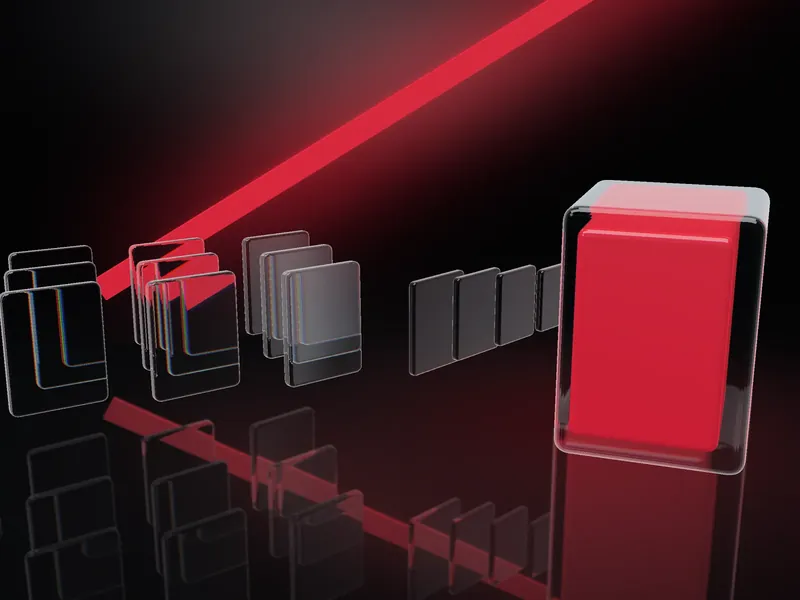
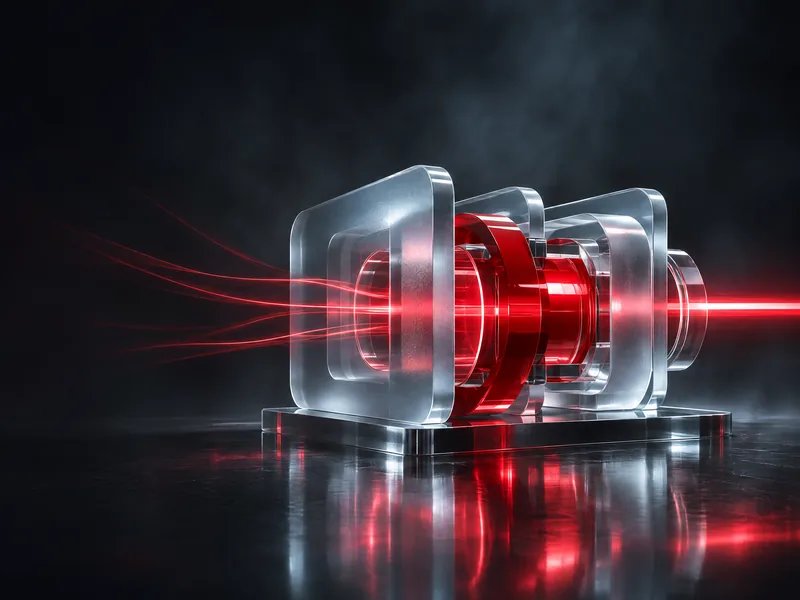
Nowe grafiki na stronie głównej (kopia docs/ z eec725c)
Claude-Session: https://claude.ai/code/session_01EKb5mpW7MxeFDWJuZ5CDms

diff --git a/index.html b/index.html
@@ -19,8 +19,8 @@
 <meta name="theme-color" content="#111217">
 <link rel="icon" type="image/png" href="/assets/hazeo-logo.png">
 <link rel="apple-touch-icon" href="/apple-touch-icon.png">
-<link rel="preload" as="image" href="/assets/hazeo-hero.webp" media="(min-width:900px)">
-<link rel="preload" as="image" href="/assets/hazeo-hero-mobile.webp" media="(max-width:899px)">
+<link rel="preload" as="image" href="/assets/hazeo-city.webp" imagesrcset="/assets/hazeo-city-1280.webp 1280w, /assets/hazeo-city.webp 2400w" imagesizes="100vw" media="(min-width:900px), (orientation:landscape)">
+<link rel="preload" as="image" href="/assets/hazeo-city-mobile.webp" imagesrcset="/assets/hazeo-city-mobile-540.webp 540w, /assets/hazeo-city-mobile.webp 1080w" imagesizes="100vw" media="(max-width:899px) and (orientation:portrait)">
 <link rel="preload" href="/assets/fonts/geist-variable.woff2" as="font" type="font/woff2" crossorigin>
 <style>@font-face{font-family:"Geist";src:url("/assets/fonts/geist-variable.woff2") format("woff2");font-weight:100 900;font-style:normal;font-display:swap}</style>
 <script>document.documentElement.classList.add('js')</script>
@@ -120,12 +120,10 @@ main,footer,header{position:relative;z-index:2}
 /* ---------- hero ---------- */
 .hero{position:relative;height:150svh}
 .hero__stage{position:sticky;top:0;height:100svh;overflow:clip}
-.hero__img{position:absolute;inset:0;width:100%;height:100%;object-fit:cover;object-position:70% 50%;transform-origin:68% 45%;will-change:transform}
-.hero__beam{position:absolute;inset:-20% -40%;pointer-events:none;mix-blend-mode:screen;opacity:.55;
-  background:linear-gradient(115deg,transparent 42%,rgba(239,35,60,.0) 46%,rgba(239,35,60,.35) 50%,rgba(255,120,135,.12) 52%,transparent 58%)}
-@media (prefers-reduced-motion:no-preference){.hero__beam{animation:beam 9s var(--ease-in-out) infinite}}
-@keyframes beam{0%{transform:translateX(-30%)}55%{transform:translateX(30%)}100%{transform:translateX(30%)}}
-.hero__shade{position:absolute;inset:0;pointer-events:none;background:linear-gradient(90deg,rgba(17,18,23,.92) 0%,rgba(17,18,23,.65) 34%,rgba(17,18,23,0) 62%),linear-gradient(0deg,rgba(17,18,23,.85),rgba(17,18,23,0) 30%)}
+.hero__media{position:absolute;inset:0;transform-origin:72% 45%;will-change:transform}
+.hero__img{position:absolute;inset:0;width:100%;height:100%;object-fit:cover;object-position:72% 50%}
+.hero__video{opacity:0;transition:opacity 1.2s var(--ease-out)}.hero__video.is-on{opacity:1}
+.hero__shade{position:absolute;inset:0;pointer-events:none;background:linear-gradient(90deg,rgba(17,18,23,.95) 0%,rgba(17,18,23,.8) 40%,rgba(17,18,23,.25) 58%,rgba(17,18,23,0) 72%),linear-gradient(0deg,rgba(17,18,23,.85),rgba(17,18,23,0) 30%)}
 .hero__copy{position:absolute;left:0;right:0;bottom:0;padding-bottom:clamp(2.25rem,8svh,6rem)}
 .hero h1{display:grid;gap:clamp(0.875rem,2svh,1.5rem)}
 .hero .kick{font-size:clamp(0.9375rem,1.2vw,1.125rem);font-weight:500;letter-spacing:0;line-height:1.4;color:var(--ice-2);display:flex;align-items:center;gap:0.75rem}
@@ -137,21 +135,19 @@ main,footer,header{position:relative;z-index:2}
 .hero .actions{margin-top:clamp(1.375rem,3.5svh,2.25rem);display:flex;flex-wrap:wrap;gap:0.75rem}
 .hero .fine{margin-top:1rem;font-size:0.875rem;color:var(--ice-3)}
 @media (max-width:599px){
-  .hero__img{top:-72px;height:calc(100% + 4.5rem)}
   .hero__shade{background:linear-gradient(0deg,rgba(17,18,23,.97) 0%,rgba(17,18,23,.88) 44%,rgba(17,18,23,.3) 60%,rgba(17,18,23,0) 72%)}
-  .hero__beam{opacity:.3}
   .hero .lede{font-size:1.0625rem;line-height:1.5}
   .hero .actions{flex-wrap:nowrap;gap:0.625rem}
   .hero .actions .btn{flex:1 1 0;min-width:0;padding:0 0.875rem;gap:0.5rem;font-size:0.9375rem;min-height:3.25rem;white-space:nowrap}
   .hero .fine{font-size:0.8125rem;color:var(--ice-2);opacity:.8}
 }
-@media (max-width:599px) and (max-height:740px){.hero__img{top:-124px;height:calc(100% + 7.75rem)}}
 .hero__tiles{position:absolute;right:var(--margin-r);top:22svh;display:grid;gap:0.75rem;width:min(18.75rem,26vw)}
 .hero__tiles .glass{padding:1rem 1.125rem;font-size:0.9375rem;line-height:1.35}
 .hero__tiles strong{display:block;font-size:1.375rem;font-weight:600;letter-spacing:-.03em;margin-bottom:2px}
+@media (max-width:899px) and (orientation:portrait){.hero__img{object-position:50% 0}}
 @media (max-width:899px){
   .hero{height:130svh}
-  .hero__img{object-position:50% 30%;transform-origin:50% 35%}
+  .hero__media{transform-origin:50% 30%}
   .hero__shade{background:linear-gradient(0deg,rgba(17,18,23,.96) 0%,rgba(17,18,23,.8) 40%,rgba(17,18,23,0) 70%)}
   .hero__tiles{display:none}
 }
@@ -194,7 +190,8 @@ main,footer,header{position:relative;z-index:2}
 .engine__tag{margin-top:1.125rem;font-size:0.9375rem;color:var(--ice-2)}
 .engine__tag b{color:var(--red);font-weight:600}
 .engine__visual{grid-column:7/span 6;position:relative;aspect-ratio:4/3;border-radius:1.75rem;overflow:hidden}
-.engine__visual img{width:100%;height:100%;object-fit:cover;transform:scale(calc(1.12 - var(--ep,0) * .12));transition:transform 200ms linear}
+.engine__visual img,.engine__video{width:100%;height:100%;object-fit:cover;transform:scale(calc(1.12 - var(--ep,0) * .12));transition:transform 200ms linear,opacity 1s var(--ease-out)}
+.engine__video{position:absolute;inset:0;opacity:0}.engine__video.is-on{opacity:1}
 .engine__visual .glass{position:absolute;left:1.125rem;bottom:1.125rem;padding:0.75rem 1rem;font-size:0.875rem}
 .engine__visual .glass b{color:var(--red)}
 .engine__rail{position:absolute;left:0;top:0;bottom:0;width:0.1875rem;background:rgba(223,229,235,.1)}
@@ -398,7 +395,7 @@ html{font-size:16px}
   .hero__tiles{display:none}
 }
 @media (min-width:900px){.faq h2{grid-column:1/span 5;padding-right:var(--gutter)}}
-@media (min-aspect-ratio:2/1) and (min-width:900px){.hero__img{left:auto;right:0;width:calc(100svh * 16 / 9)}}
+@media (min-aspect-ratio:2/1) and (min-width:900px){.hero__media{left:auto;right:0;width:calc(100svh * 16 / 9)}}
 @media (min-width:900px) and (max-height:820px){.engine__text h2{font-size:min(clamp(1.875rem,3.3vw,3.375rem),6.2svh)}.engine__text .lede{font-size:1rem;margin-top:.75rem}.steps{margin-top:1rem}.step{padding:.625rem .875rem}}
 @media (min-width:900px) and (max-height:680px){.engine{height:auto}.engine__stage{position:static;height:auto;padding-block:6rem}.step{opacity:1}.step span{max-height:none;margin-top:.375rem}.step::before{background:var(--red);color:var(--obsidian)}}
 @media (min-width:900px){.hero .lede{max-width:40ch}}
@@ -448,8 +445,9 @@ img{max-width:100%;height:auto}
 <main id="top">
   <section class="hero" id="hero" aria-labelledby="h1">
     <div class="hero__stage">
-      <picture><source media="(max-width:899px)" width="1080" height="1920" srcset="/assets/hazeo-hero-mobile-540.webp 540w, /assets/hazeo-hero-mobile.webp 1080w" sizes="100vw"><img class="hero__img" id="heroImg" width="2400" height="1350" src="/assets/hazeo-hero.webp" srcset="/assets/hazeo-hero-1280.webp 1280w, /assets/hazeo-hero.webp 2400w" sizes="100vw" alt="Szklany monogram HAZEO z czerwonymi elementami na tle smugi czerwonego światła" fetchpriority="high"></picture>
-      <div class="hero__beam" aria-hidden="true"></div>
+      <div class="hero__media" id="heroMedia">
+        <picture><source media="(max-width:899px) and (orientation:portrait)" width="1080" height="1910" srcset="/assets/hazeo-city-mobile-540.webp 540w, /assets/hazeo-city-mobile.webp 1080w" sizes="100vw"><img class="hero__img" id="heroImg" width="2400" height="1357" src="/assets/hazeo-city.webp" srcset="/assets/hazeo-city-1280.webp 1280w, /assets/hazeo-city.webp 2400w" sizes="100vw" alt="Nocne miasto z góry: czerwone smugi światła płyną ulicami do jednego szklanego wieżowca" fetchpriority="high"></picture>
+      </div>
       <div class="hero__shade" aria-hidden="true"></div>
       <div class="hero__tiles" aria-hidden="true" id="heroTiles">
         <div class="glass tilt" data-depth="0.6"><strong>B2B i B2C</strong>Dwa silniki, jeden zespół</div>
@@ -512,7 +510,7 @@ img{max-width:100%;height:auto}
           <p class="engine__tag"><b>Człowiek zatwierdza.</b> AI przyspiesza.</p>
         </div>
         <figure class="engine__visual glass" id="engineVisual">
-          <img width="1600" height="1200" src="/assets/hazeo-engine.webp" srcset="/assets/hazeo-engine-800.webp 800w, /assets/hazeo-engine.webp 1600w" sizes="(max-width:899px) 100vw, 45vw" alt="Szklane kafle płynące do jednego czerwonego bloku: wiele leadów, jeden kwalifikowany wynik" loading="lazy">
+          <img width="1600" height="1200" src="/assets/hazeo-engine.webp" srcset="/assets/hazeo-engine-800.webp 800w, /assets/hazeo-engine.webp 1600w" sizes="(max-width:899px) 100vw, 45vw" alt="Szklany silnik z czerwonym rdzeniem: wiele czerwonych smug wpada do środka, wychodzi jeden promień – wiele leadów, jeden kwalifikowany wynik" loading="lazy">
           <div class="engine__rail" aria-hidden="true"><i></i></div>
           <figcaption class="glass" id="engineCap"><b>Krok 1 z 5</b> · Ustalamy cel</figcaption>
         </figure>
@@ -769,8 +767,51 @@ img{max-width:100%;height:auto}
     if (lenis) lenis.scrollTo(el, { offset: -80 }); else el.scrollIntoView({ behavior: RM ? 'auto' : 'smooth', block: 'start' });
   }));
 
+
+  /* hero video: loads after the page, only where it makes sense */
+  (() => {
+    const v = $('#heroVideo'); if (!v) return;
+    const conn = navigator.connection || {};
+    if (RM || conn.saveData || /(^|-)2g$/.test(conn.effectiveType || '')) return;
+    const mq = matchMedia('(max-width:899px)');
+    let started = false, visible = true;
+    const pick = () => (mq.matches ? v.dataset.mobile : v.dataset.desktop);
+    const load = () => {
+      if (started) return; started = true;
+      const base = pick();
+      v.innerHTML = '<source src="' + base + '.webm" type="video/webm"><source src="' + base + '.mp4" type="video/mp4">';
+      v.load();
+      v.addEventListener('playing', () => v.classList.add('is-on'), { once: true });
+      v.addEventListener('error', () => v.remove(), true);
+      if (visible && !document.hidden) v.play().catch(() => {});
+    };
+    const go = () => ('requestIdleCallback' in window ? requestIdleCallback(load, { timeout: 2500 }) : setTimeout(load, 1200));
+    if (document.readyState === 'complete') go(); else addEventListener('load', go, { once: true });
+    new IntersectionObserver(([e]) => { visible = e.isIntersecting; if (!started) return; visible && !document.hidden ? v.play().catch(() => {}) : v.pause(); }).observe($('#hero'));
+    document.addEventListener('visibilitychange', () => { if (!started) return; document.hidden || !visible ? v.pause() : v.play().catch(() => {}); });
+  })();
+
+
+  /* engine video: starts when the section comes near, pauses when it leaves */
+  (() => {
+    const v = $('#engineVideo'); if (!v) return;
+    const conn = navigator.connection || {};
+    if (RM || conn.saveData || /(^|-)2g$/.test(conn.effectiveType || '')) return;
+    let started = false;
+    new IntersectionObserver(([e]) => {
+      if (e.isIntersecting && !started) {
+        started = true; const b = v.dataset.src;
+        v.innerHTML = '<source src="' + b + '.webm" type="video/webm"><source src="' + b + '.mp4" type="video/mp4">';
+        v.addEventListener('playing', () => v.classList.add('is-on'), { once: true });
+        v.addEventListener('error', () => v.remove(), true);
+        v.load();
+      }
+      if (started) e.isIntersecting && !document.hidden ? v.play().catch(() => {}) : v.pause();
+    }, { rootMargin: '200px 0px' }).observe(v.parentElement);
+  })();
+
   /* hero: camera push-in and tiles parallax, locked to scroll */
-  const hero = $('#hero'), heroImg = $('#heroImg'), heroCopy = $('#heroCopy'), tiles = $$('#heroTiles .glass');
+  const hero = $('#hero'), heroImg = $('#heroMedia'), heroCopy = $('#heroCopy'), tiles = $$('#heroTiles .glass');
   const dock = $('#dock'), contact = $('#zgloszenie');
   let ticking = false;
   const onScroll = () => {
